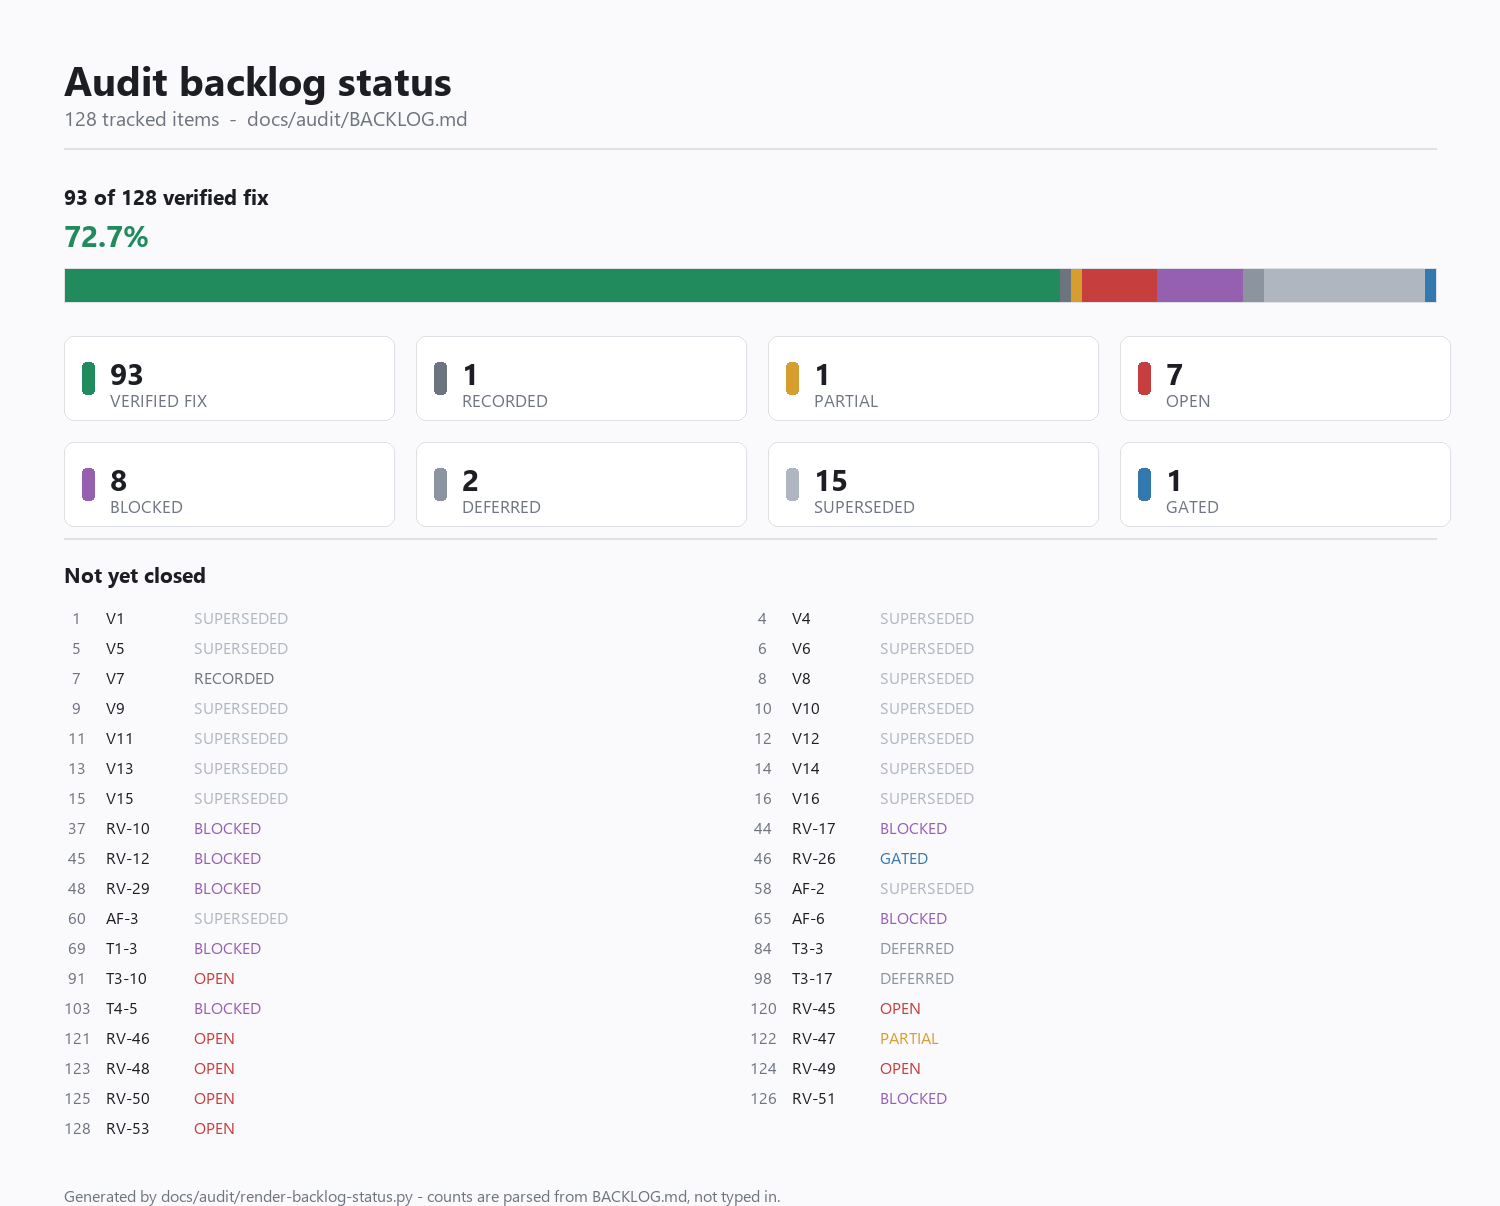
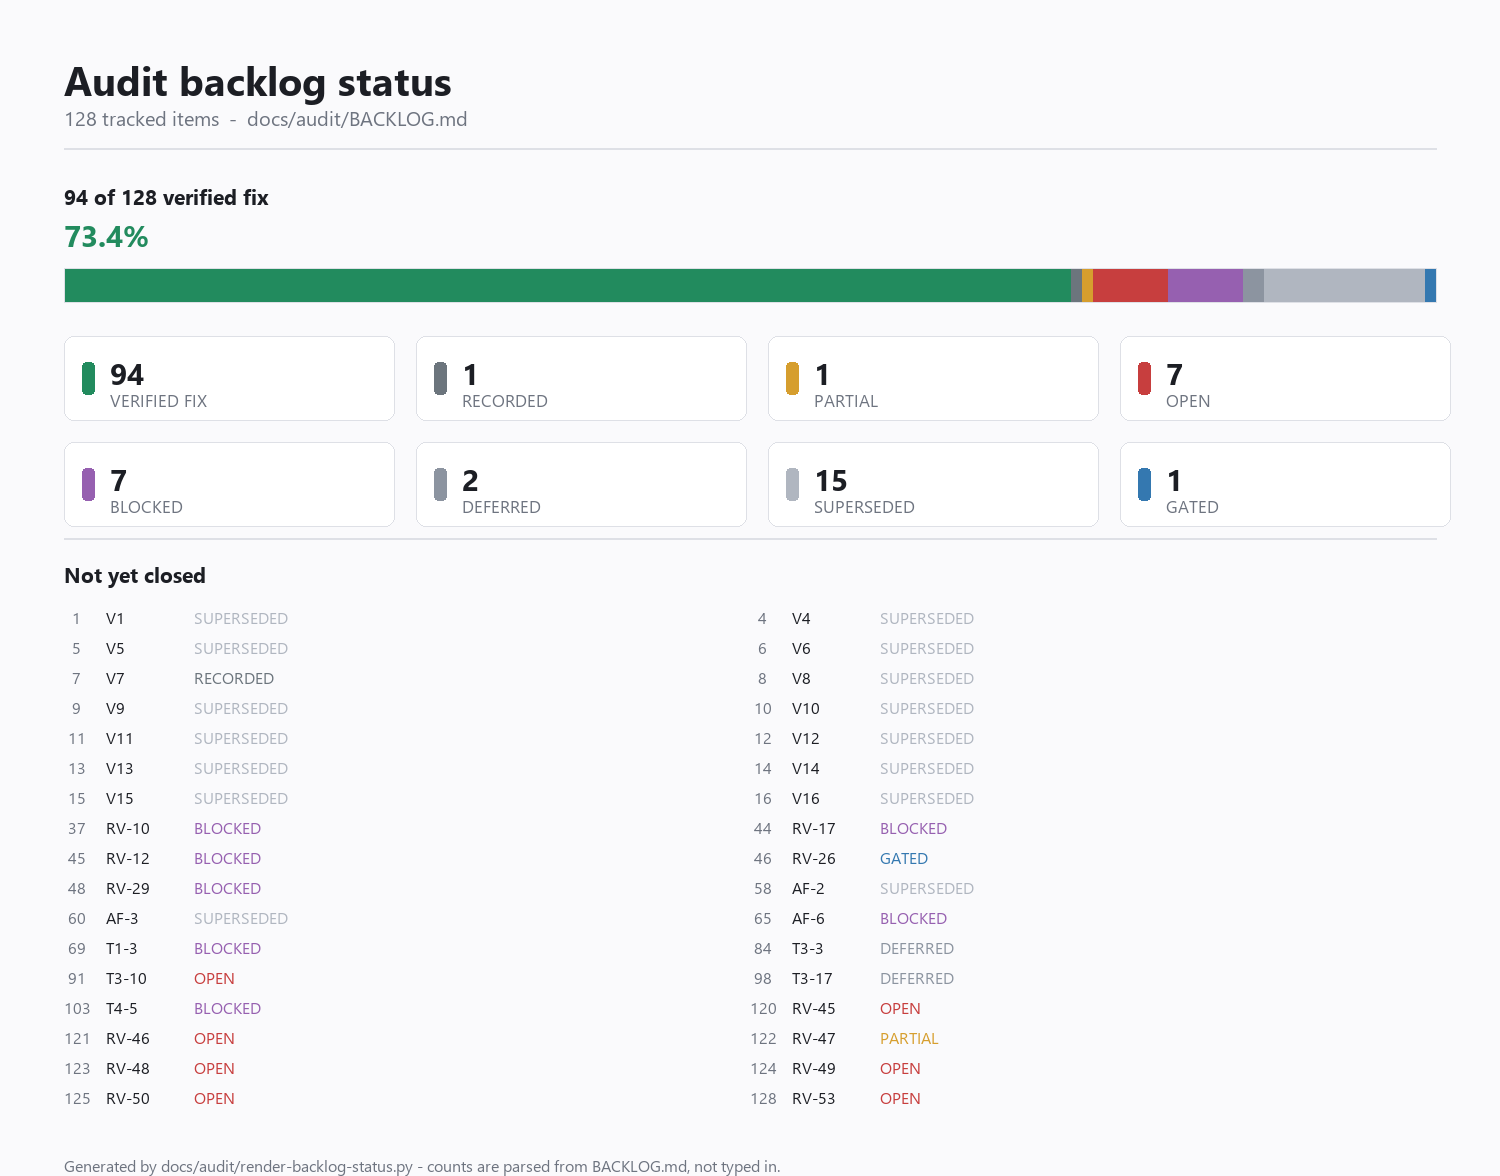
RV-51: VERIFIED FIX - keep process(), rewrite stale image-contract tests (owner option 1)
ImageMessageType::process() is required by MessageTypeInterface, so it stays. The four tests that passed
a stored path as content are rewritten to the live UploadedFile-under-image contract, with a denied case
for a path string. Test file only. 14 tests / 17 assertions OK; caption mutation caught; app file restored
byte-identical. Audit section 150.

diff --git a/tests/Unit/Services/ImageMessageTypeTest.php b/tests/Unit/Services/ImageMessageTypeTest.php
@@ -4,14 +4,17 @@ namespace Tests\Unit\Services;
 
 use App\Interfaces\MessageTypeInterface;
 use App\Services\MessageTypes\ImageMessageType;
+use Illuminate\Http\UploadedFile;
+use Illuminate\Support\Facades\Storage;
 use Tests\TestCase;
 
 /**
  * ImageMessageTypeTest
  *
- * ImageMessageType is a small, stateless class implementing MessageTypeInterface.
- * It validates that an incoming message has image content and processes it into
- * the standard message payload shape the chat system expects.
+ * ImageMessageType implements MessageTypeInterface. The live image contract is an
+ * UploadedFile under the `image` key (ChatMessageHandler::sendImageMessage). The earlier
+ * tests passed a stored path string as `content`, which is a retired contract that
+ * validate() correctly rejects (RV-51, owner ruling option 1).
  */
 class ImageMessageTypeTest extends TestCase
 {
@@ -21,6 +24,7 @@ class ImageMessageTypeTest extends TestCase
     {
         parent::setUp();
         $this->type = new ImageMessageType;
+        Storage::fake('public');
     }
 
     // ─── Instantiation & interface ─────────────────────────────────────────
@@ -47,11 +51,10 @@ class ImageMessageTypeTest extends TestCase
 
     // ─── validate ──────────────────────────────────────────────────────────
 
-    public function test_validate_returns_true_with_valid_image_content(): void
+    public function test_validate_returns_true_with_valid_uploaded_image(): void
     {
         $result = $this->type->validate([
-            'content' => 'images/chat/photo.jpg',
-            'type' => 'image',
+            'image' => UploadedFile::fake()->image('photo.jpg'),
         ]);
 
         $this->assertTrue($result);
@@ -59,12 +62,12 @@ class ImageMessageTypeTest extends TestCase
 
     public function test_validate_returns_bool(): void
     {
-        $result = $this->type->validate(['content' => 'some/path.png']);
+        $result = $this->type->validate(['image' => UploadedFile::fake()->image('a.png')]);
 
         $this->assertIsBool($result);
     }
 
-    public function test_validate_returns_false_when_content_missing(): void
+    public function test_validate_returns_false_when_image_missing(): void
     {
         $result = $this->type->validate(['type' => 'image']);
 
@@ -76,9 +79,10 @@ class ImageMessageTypeTest extends TestCase
         $this->assertFalse($this->type->validate([]));
     }
 
-    public function test_validate_returns_false_when_content_is_empty_string(): void
+    public function test_validate_rejects_a_stored_path_string_instead_of_a_file(): void
     {
-        $this->assertFalse($this->type->validate(['content' => '']));
+        // The retired contract: a path string is not an uploaded image.
+        $this->assertFalse($this->type->validate(['image' => 'images/chat/photo.jpg']));
     }
 
     // ─── process ───────────────────────────────────────────────────────────
@@ -86,8 +90,8 @@ class ImageMessageTypeTest extends TestCase
     public function test_process_returns_array(): void
     {
         $result = $this->type->process([
-            'content' => 'images/chat/test.jpg',
-            'type' => 'image',
+            'image' => UploadedFile::fake()->image('test.jpg'),
+            'caption' => 'hello',
         ]);
 
         $this->assertIsArray($result);
@@ -96,27 +100,40 @@ class ImageMessageTypeTest extends TestCase
     public function test_process_result_is_not_empty(): void
     {
         $result = $this->type->process([
-            'content' => 'images/chat/test.jpg',
+            'image' => UploadedFile::fake()->image('test.jpg'),
         ]);
 
         $this->assertNotEmpty($result);
     }
 
-    public function test_process_preserves_content_field(): void
+    public function test_process_preserves_caption_as_content(): void
     {
         $result = $this->type->process([
-            'content' => 'images/chat/preserved.jpg',
+            'image' => UploadedFile::fake()->image('preserved.jpg'),
+            'caption' => 'a caption',
         ]);
 
         $this->assertArrayHasKey('content', $result);
-        $this->assertNotEmpty($result['content']);
+        $this->assertSame('a caption', $result['content']);
+    }
+
+    public function test_process_stores_the_image_and_reports_its_metadata(): void
+    {
+        $file = UploadedFile::fake()->image('stored.jpg');
+
+        $result = $this->type->process(['image' => $file]);
+
+        $this->assertArrayHasKey('metadata', $result);
+        $this->assertSame('stored.jpg', $result['metadata']['image_name']);
+        $this->assertArrayHasKey('image_url', $result['metadata']);
+        $this->assertNotEmpty($result['metadata']['image_url']);
     }
 
     public function test_validate_then_process_does_not_throw(): void
     {
         $this->expectNotToPerformAssertions();
 
-        $data = ['content' => 'images/chat/photo.png', 'type' => 'image'];
+        $data = ['image' => UploadedFile::fake()->image('photo.png')];
 
         if ($this->type->validate($data)) {
             $this->type->process($data);

diff --git a/docs/audit/BACKLOG.md b/docs/audit/BACKLOG.md
@@ -269,7 +269,7 @@ Cells marked `NOT re-verified` mean the gate moved but the code was not re-check
 | 123 | RV-48 | Every user gets an automatic 3.0 rating at signup; it is averaged into `average_rating` | P2 | OPEN | none | RV-47, ratings, admin dashboard | `R2 sec 137` - `UserObserver::created` (`:27-35`) `firstOrCreate`s a `UserRating` with `rater_id = null`, `rating = 3.0` for EVERY new user. `AdminDriverService::getStats()` averages ALL rows for verified drivers including these, so the dashboard average is anchored by synthetic platform data and a 5-star user reads 4.0 OWNER RULING 2026-10-13: KEEP the synthetic 3.0 signup ratings in the dashboard average. Update test expectations to match; no code change to UserObserver. `R2 sec 148`: suspended-fixture half FIXED in AdminDriverServiceTest: 7 fixtures moved from status 0 (logged-out) to a permanent ban (status -1), per RV-42a. Failures 15 to 10. The 10 remaining are rating-average expectations that ignore the synthetic 3.0; they need the RV-48 ruling applied to the expectations, not done in this step. Status stays OPEN until those 10 are updated. |
 | 124 | RV-49 | resolveEscalated appends an audit prefix; the test expects the exact note text | P2 | OPEN | none | RV-47, audit trail | `R2 sec 138`. `StaffComplaintServiceTest::test_resolve_escalated_persists_resolution_notes` asserts the note equals the admin text; the service stores `"\n\n[RESOLVED by <name> at <time>]\n" + text` - a deliberate audit prefix. Test is red (1 failure). Not edited: the prefix is audit output, so the expectation or the prefix must be chosen by the owner OWNER RULING 2026-10-13: KEEP the [RESOLVED by ... at ...] audit prefix; update StaffComplaintServiceTest to expect it. |
 | 125 | RV-50 | GeocodingServiceTest calls a removed geocode() with a contract the service does not provide | P2 | OPEN | none | RV-47 | `R2 sec 139`. 17 tests (11 errors + 4 failures + 2 more). Tests call `geocode($address)` expecting `[lat, lng]` or `null` on no match. Service has `geocodeAddress(): array` (Arabic-first, English fallback). Differences: (a) no-match returns `[]` shape not `null`; (b) English branch restricts `countrycodes=sy` (Syria), so an Amman test address cannot resolve, while the tests assume Jordan. Not a rename: making them pass needs a country-scope and a null-contract decision. Not edited OWNER RULING 2026-10-13: KEEP the service with Syria scope (countrycodes=sy). Rename tests to geocodeAddress(), expect [] on no match, and use Syrian test addresses. |
-| 126 | RV-51 | ImageMessageType tests encode a retired chat-image contract (path as content) | P2 | BLOCKED | owner: the 2026-10-13 ruling assumed process() was dead; it is not | RV-47 | `R2 sec 141`. 4 failing tests in tests/Unit/Services/ImageMessageTypeTest.php. Production uploads an UploadedFile through ChatMessageHandler::sendImageMessage (:105-134) to FileUploadService::uploadChatImage, and validate() requires an uploaded image. The tests pass a stored path as content, so validate() returns false and process() reads a missing image key. Not edited: removing or rewriting process() is a design choice, not a test fix OWNER RULING 2026-10-13: REMOVE ImageMessageType::process() (dead branch) and its 4 tests. Deletion approved by the owner in this ruling. `R2 sec 149`: ruling "remove ImageMessageType::process()" CANNOT be applied as written. process() is a required method of MessageTypeInterface (app/Interfaces/MessageTypeInterface.php:15) and TextMessageType implements it too. ChatMessageHandler::handle calls $handler->process($data) for every non-image message (:83). Removing it from ImageMessageType alone breaks the interface contract. The ruling rested on the premise that process() is unreachable; it is unreachable only for uploaded images. Not edited. Owner must choose between an interface change and keeping the method with fixed tests. |
+| 126 | RV-51 | ImageMessageType tests encode a retired chat-image contract (path as content) | P2 | VERIFIED FIX | none | RV-47 | `R2 sec 141`. 4 failing tests in tests/Unit/Services/ImageMessageTypeTest.php. Production uploads an UploadedFile through ChatMessageHandler::sendImageMessage (:105-134) to FileUploadService::uploadChatImage, and validate() requires an uploaded image. The tests pass a stored path as content, so validate() returns false and process() reads a missing image key. Not edited: removing or rewriting process() is a design choice, not a test fix OWNER RULING 2026-10-13: REMOVE ImageMessageType::process() (dead branch) and its 4 tests. Deletion approved by the owner in this ruling. `R2 sec 149`: ruling "remove ImageMessageType::process()" CANNOT be applied as written. process() is a required method of MessageTypeInterface (app/Interfaces/MessageTypeInterface.php:15) and TextMessageType implements it too. ChatMessageHandler::handle calls $handler->process($data) for every non-image message (:83). Removing it from ImageMessageType alone breaks the interface contract. The ruling rested on the premise that process() is unreachable; it is unreachable only for uploaded images. Not edited. Owner must choose between an interface change and keeping the method with fixed tests. `R2 sec 150`: owner ruled option 1 (keep process(), it is required by MessageTypeInterface). Four stale-contract tests rewritten to UploadedFile under `image`; test file only. 14 tests / 17 assertions OK; caption mutation caught and app file restored byte-identical. Commit: see R2 sec 150. |
 | 127 | RV-52 | Driver can cancel a ride after departure: validateCanCancelRide check is commented out | P1 | **VERIFIED FIX** | none | RV-47, cancellation, money | `R2 sec 144`. Owner ruled the window: 1 hour before departure. Re-enabled the commented-out check in `RideValidationService::validateCanCancelRide` (`:98-106`). Verified through the real route: inside the window = 422, ride stays active; 3 hours out = 200, ride cancelled. Past departure refused. RideValidationServiceTest 17 tests OK (was 1 failure). Rides 90 green, Bookings 11 green, Unit/Domain 122 green, KycActionGateTest + RV37ScorePolicyTest 10 green. Pint PASS. Commit: see git log. |
 | 128 | RV-53 | Driver without verification documents gets a generic 500 on ride create, not a curated refusal | P2 | **OPEN** | owner: should missing-document refusal be 422 with a curated message | RV-45 | `R2 sec 147`. RideValidationService::validateDriverCanCreateRide throws a plain \Exception ("Missing required driver verification documents: Face ID Photo, Back ID Photo, Driving License") for a verified driver lacking documents. RideController::create catches only DomainException and \InvalidArgumentException, so this falls to the catch-all and returns a generic 500. Reproduced on HEAD with a fixture that has no documents. Not edited: changing the exception type or the status is a public response-shape decision |
 

diff --git a/docs/audit/App future audit review r2.md b/docs/audit/App future audit review r2.md
@@ -11503,5 +11503,26 @@ So `process()` is a required contract method. The earlier conclusion that it was
 **Options for the owner.**
 1. Keep `ImageMessageType::process()` as the interface requires and rewrite its 4 tests to the uploaded-file contract.
 2. Change `MessageTypeInterface` so `process()` is not required for image messages, then remove it, with the test deletion approved.
+---
 
-**Next audit section number: 150.**
+## 150. RV-51 (row 126): VERIFIED FIX - owner option 1
+
+**Problem.** Four `ImageMessageTypeTest` cases passed a stored path as `content`. That is a retired contract. The live contract is an `UploadedFile` under `image` (`ChatMessageHandler::sendImageMessage`, `:110`).
+
+**Owner ruling.** Option 1: keep `ImageMessageType::process()`, because `MessageTypeInterface` requires it (`app/Interfaces/MessageTypeInterface.php:15`), and rewrite the tests.
+
+**Root cause.** The tests were not updated when the image contract changed.
+
+**Fix.** Test file only: `tests/Unit/Services/ImageMessageTypeTest.php`. Rewrote the path-as-content cases to `UploadedFile::fake()->image(...)`. Added a denied case: `validate()` rejects a stored path string. Added a `process()` storage case that checks `metadata.image_name` and `metadata.image_url`. App code unchanged.
+
+**Checks.**
+- `php -l`: clean. Pint `--test`: PASS.
+- `ImageMessageTypeTest`: 14 tests, 17 assertions, OK. It is the only test file that references the image type (`git grep`).
+- Mutation: dropped the caption from `process()` on a copy, ran `--filter preserves_caption`, the test failed. The app file was restored byte-identical (verified).
+- No probe files left.
+
+**Final state: VERIFIED FIX.**
+
+**Not verified.** The `process()` storage path writes to the public disk in tests, which is faked. Production disk behaviour is not exercised here.
+
+**Next audit section number: 151.**
